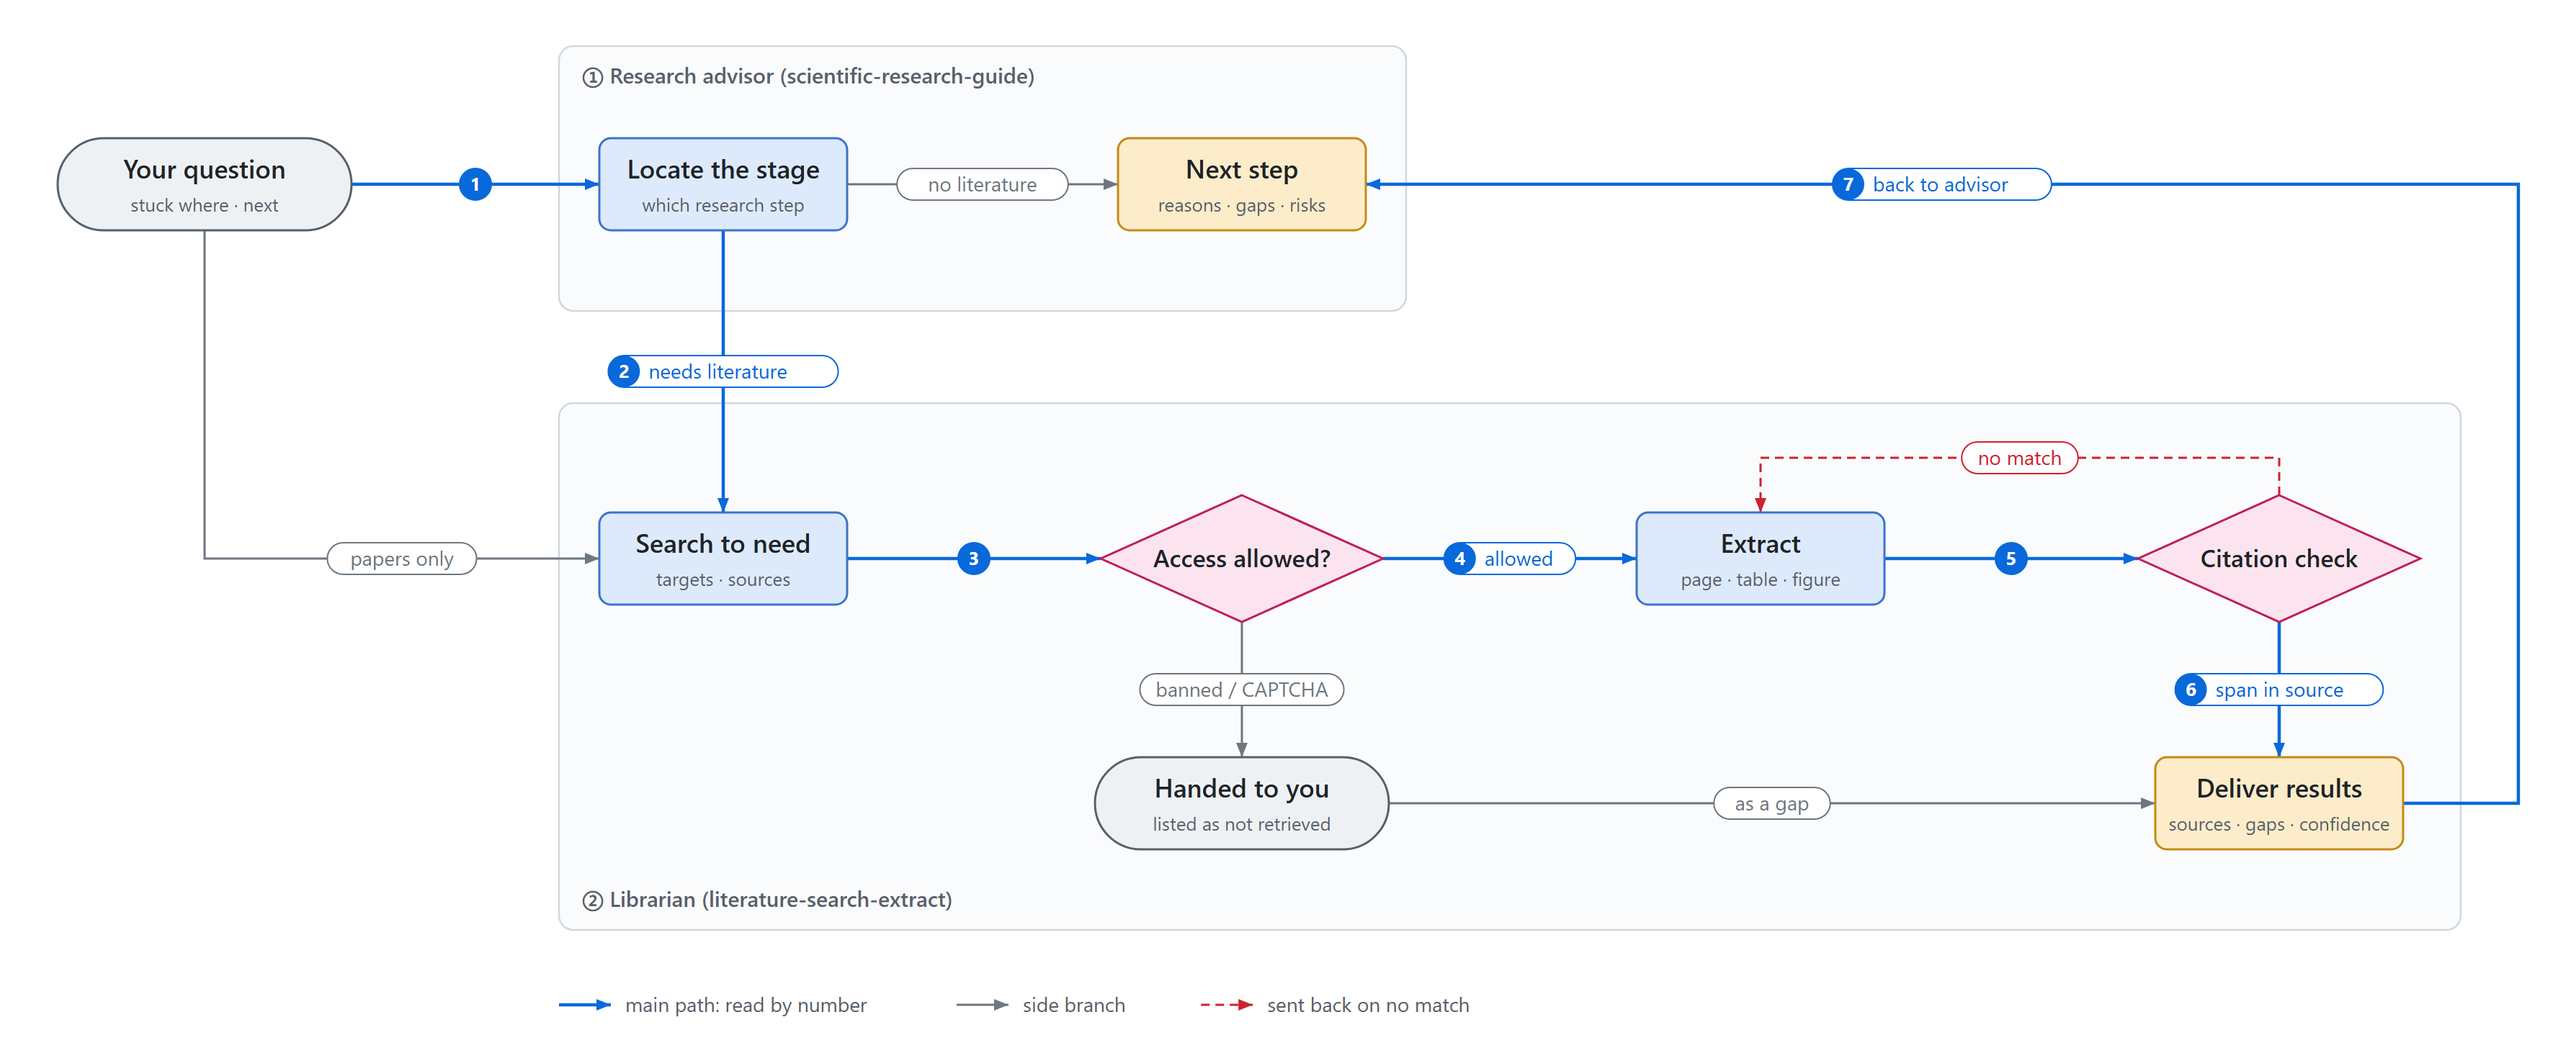
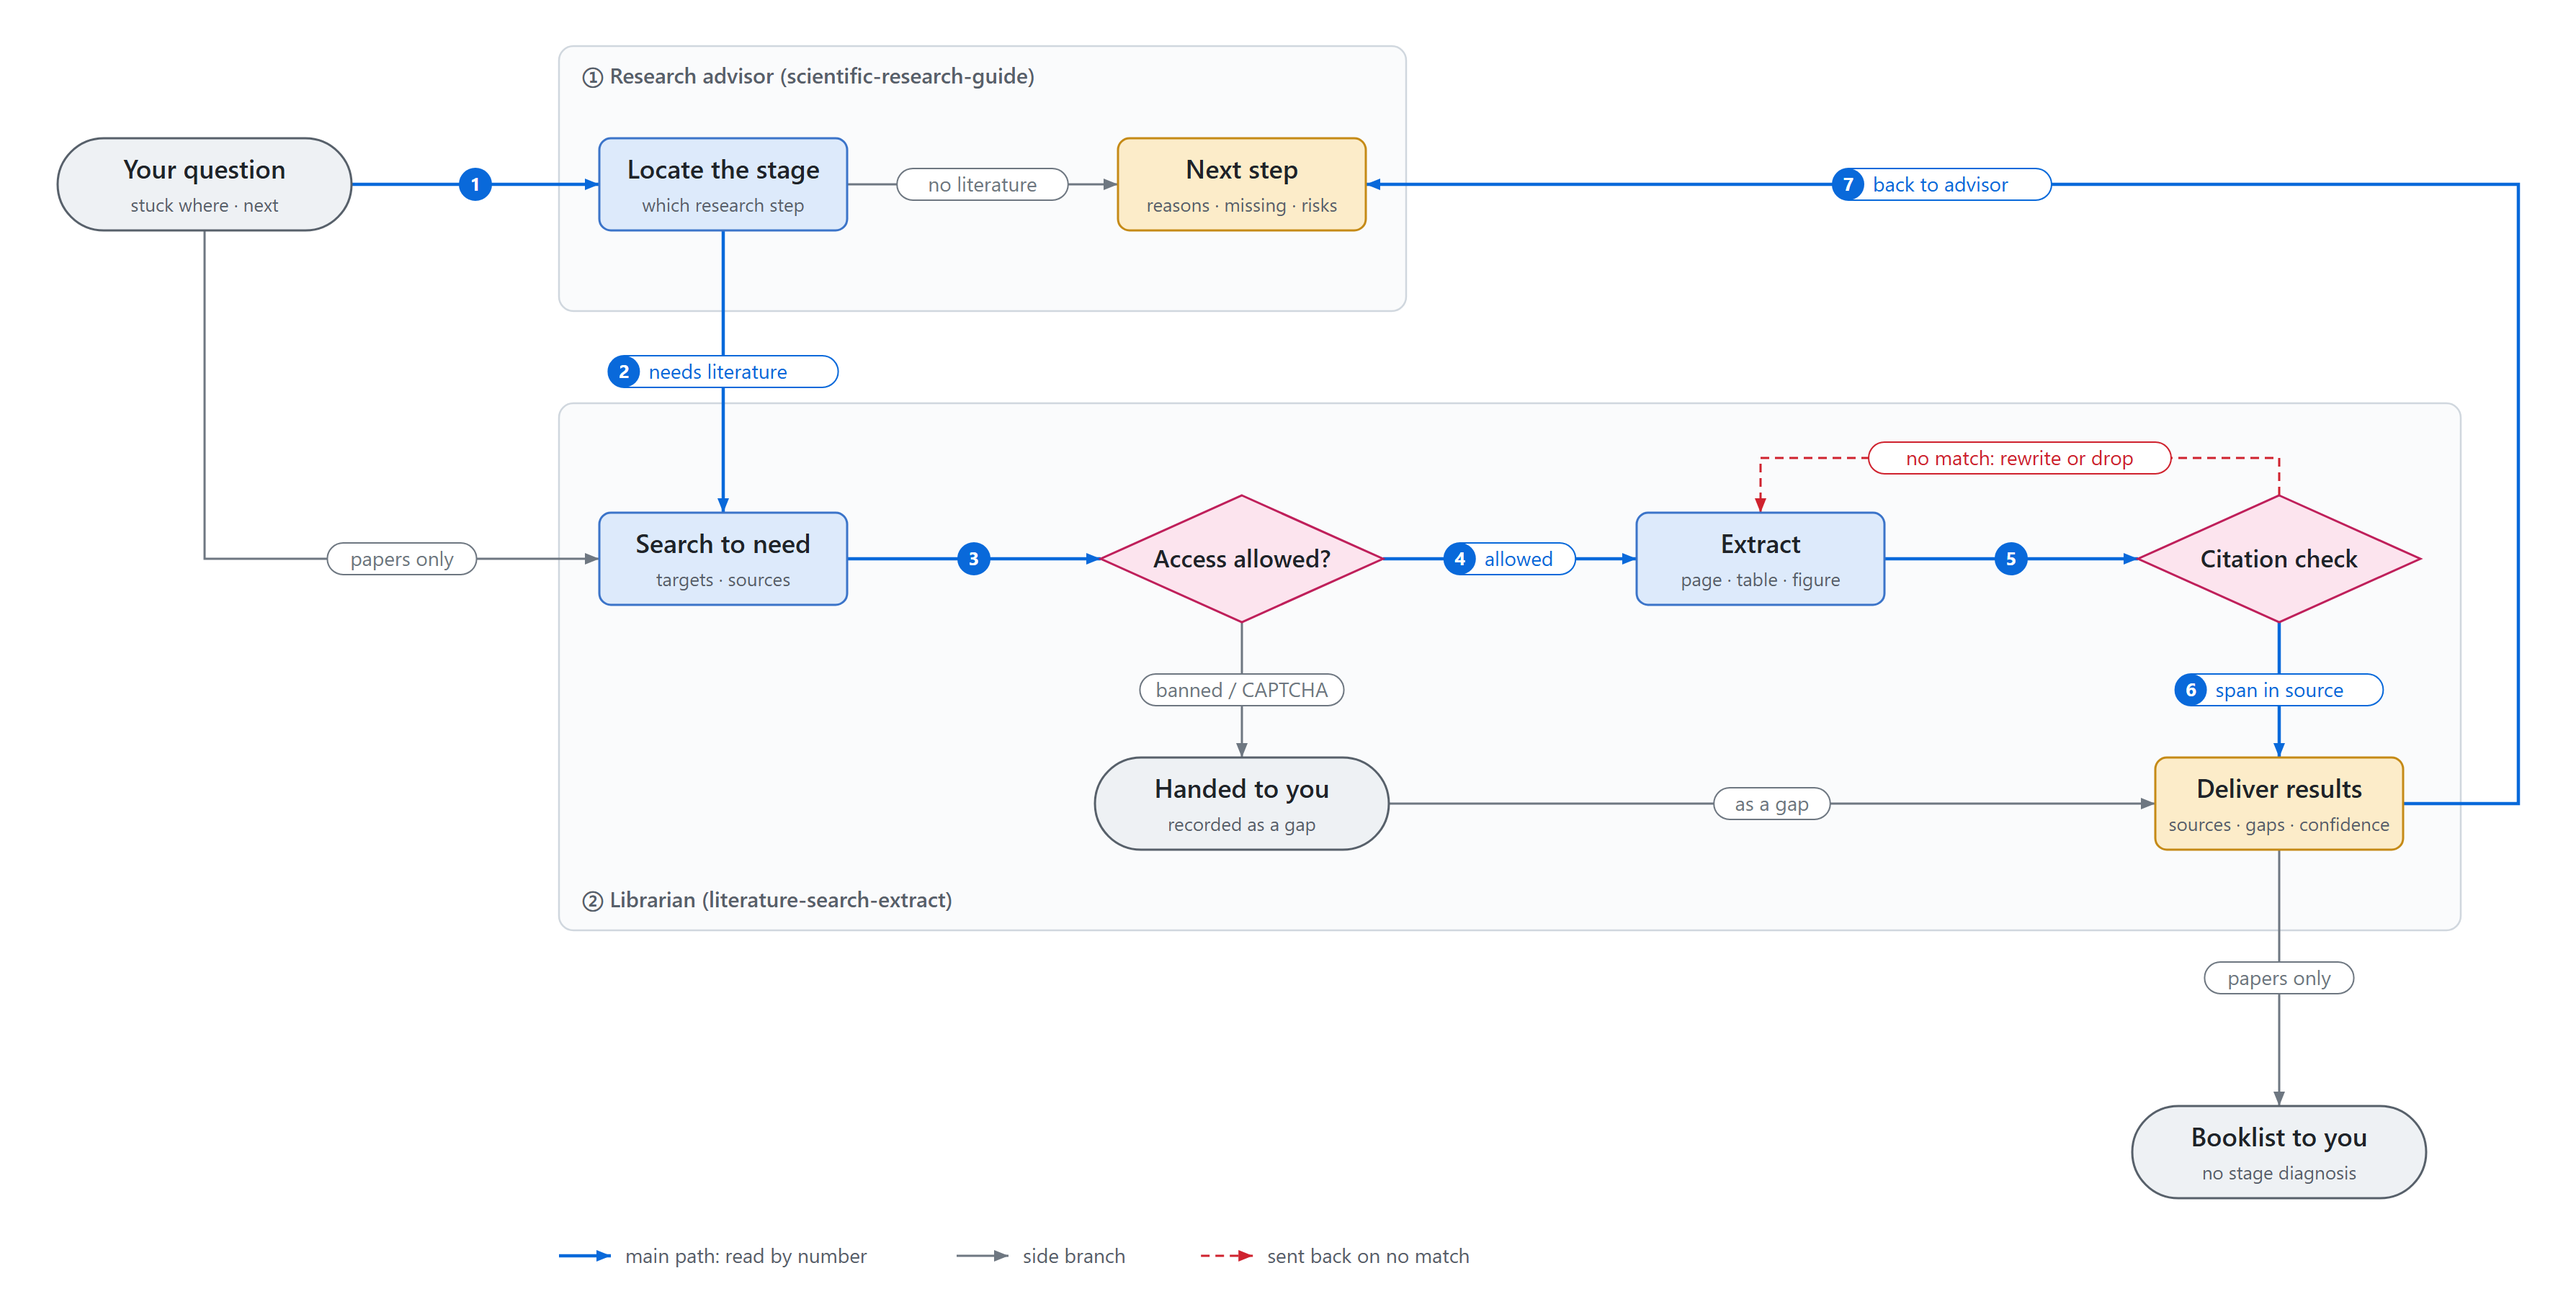
fix(assets): give papers-only requests their own exit and tighten flow controls
A retrieval-only request now ends at the booklist, not the diagnosis; the
send-back reads "rewrite or drop"; gap wording is one term. Each selftest
control matches only its own failure, overlapping lines are a FAIL, and
build_assets runs the controls for both languages.

diff --git a/docs/assets/build_assets.py b/docs/assets/build_assets.py
@@ -1,6 +1,10 @@
 """Regenerate every README image from the shipped tools' real output (no hand-made picture).
 
-Usage (from the repo root):  python -X utf8 docs/assets/build_assets.py
+Usage (from the repo root):  python -X utf8 docs/assets/build_assets.py [--only flow]
+
+--only flow renders just the README flow diagram: runs `node docs/assets/flow.build.mjs --selftest` for both
+languages, builds flow.zh-TW.svg and flow.en.svg, checks in the browser that every text sits inside its node
+(with a known-bad copy that must fail), and writes flow.zh-TW.png and flow.en.png. The full run does this first.
 
 What it does: copies reference-impl/ into a temp dir, RUNS the shipped tools there (citecheck, the host-access
 hook, profile-lint; same drive as controls K5, K6, K9 of verify/run_controls.py), pastes their stdout (temp path
@@ -8,8 +12,9 @@ scrubbed to <scratch>) into the pages under docs/assets/src/, and screenshots th
 Offline: nothing touches the network.
 
 Outputs (docs/assets/): hero.png, panel-citecheck.png, panel-hostguard.png, panel-lint.png (all 960 px wide;
-the height follows the content and is printed).
-Needs: Python 3.11+, playwright + chromium (python -m playwright install chromium). The pages use local fonts
+the height follows the content and is printed), flow.zh-TW.png and flow.en.png (the SVG's own size, @2x).
+Needs: Python 3.11+, playwright + chromium (python -m playwright install chromium), and Node.js on PATH for the
+flow diagram (standard library only; tested with Node.js 24). The pages use local fonts
 only; without a CJK serif font installed the type differs, the content does not.
 """
 from __future__ import annotations
@@ -60,10 +65,12 @@ FIT_JS = """() => {
 def build_flow() -> int:
     """Render flow.<lang>.svg (from flow.build.mjs) to PNG @2x; the in-browser text-fit check must be quiet on the
     real SVG and must fire on a known-bad copy whose one node is shrunk to 40 px wide."""
-    st = subprocess.run(["node", str(ASSETS / "flow.build.mjs"), "--selftest"], capture_output=True, text=True, encoding="utf-8")
-    print(st.stdout.strip())
-    if st.returncode:
-        sys.exit("flow.build.mjs --selftest failed")
+    for lang in ("zh-TW", "en"):  # each language has its own geometry, so each runs its own controls
+        st = subprocess.run(["node", str(ASSETS / "flow.build.mjs"), "--selftest", "--lang", lang],
+                            capture_output=True, text=True, encoding="utf-8")
+        print(f"selftest {lang}:\n{st.stdout.strip()}")
+        if st.returncode:
+            sys.exit(f"flow.build.mjs --selftest --lang {lang} failed")
     with sync_playwright() as pw:
         browser = pw.chromium.launch()
         page = browser.new_page(device_scale_factor=2)
@@ -94,7 +101,10 @@ def build_flow() -> int:
 
 
 def main() -> int:
-    if "--only" in sys.argv and sys.argv[sys.argv.index("--only") + 1] == "flow":
+    if "--only" in sys.argv:
+        what = sys.argv[sys.argv.index("--only") + 1:][:1]
+        if what != ["flow"]:
+            sys.exit("usage: build_assets.py [--only flow]")
         return build_flow()
     build_flow()
     work = Path(tempfile.mkdtemp(prefix="rak-assets-"))
